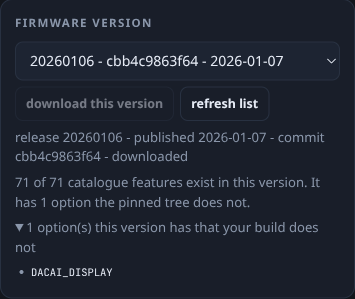
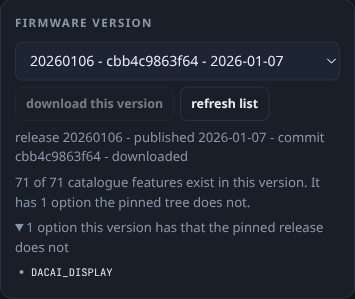
Configurator: say what the option list actually compares against
The details line read 'that your build does not', but the comparison is
against the pinned release's own Configuration.h, not the visitor's selection.
Also fixes the '1 option(s)' plural.

Changed region(s): [[0.2169, 0.7224, 0.9296, 0.7826], [0.093, 0.8127, 0.2169, 0.8428], [0.031, 0.8127, 0.062, 0.8428]]

diff --git a/tools/configurator/web/app.js b/tools/configurator/web/app.js
@@ -112,7 +112,8 @@ function renderInspect() {
     (extra ? ".  It has " + extra + (extra === 1 ? " option" : " options") + " the pinned tree does not." : ".");
   const det = $("source-new");
   det.classList.toggle("hidden", !i.new_define_count);
-  det.querySelector("summary").textContent = i.new_define_count + " option(s) this version has that your build does not";
+  det.querySelector("summary").textContent = i.new_define_count + (i.new_define_count === 1 ? " option" : " options") +
+    " this version has that the pinned release does not";
   const list = $("source-new-list");
   list.innerHTML = "";
   for (const d of (i.new_defines || []).slice(0, 40)) {
